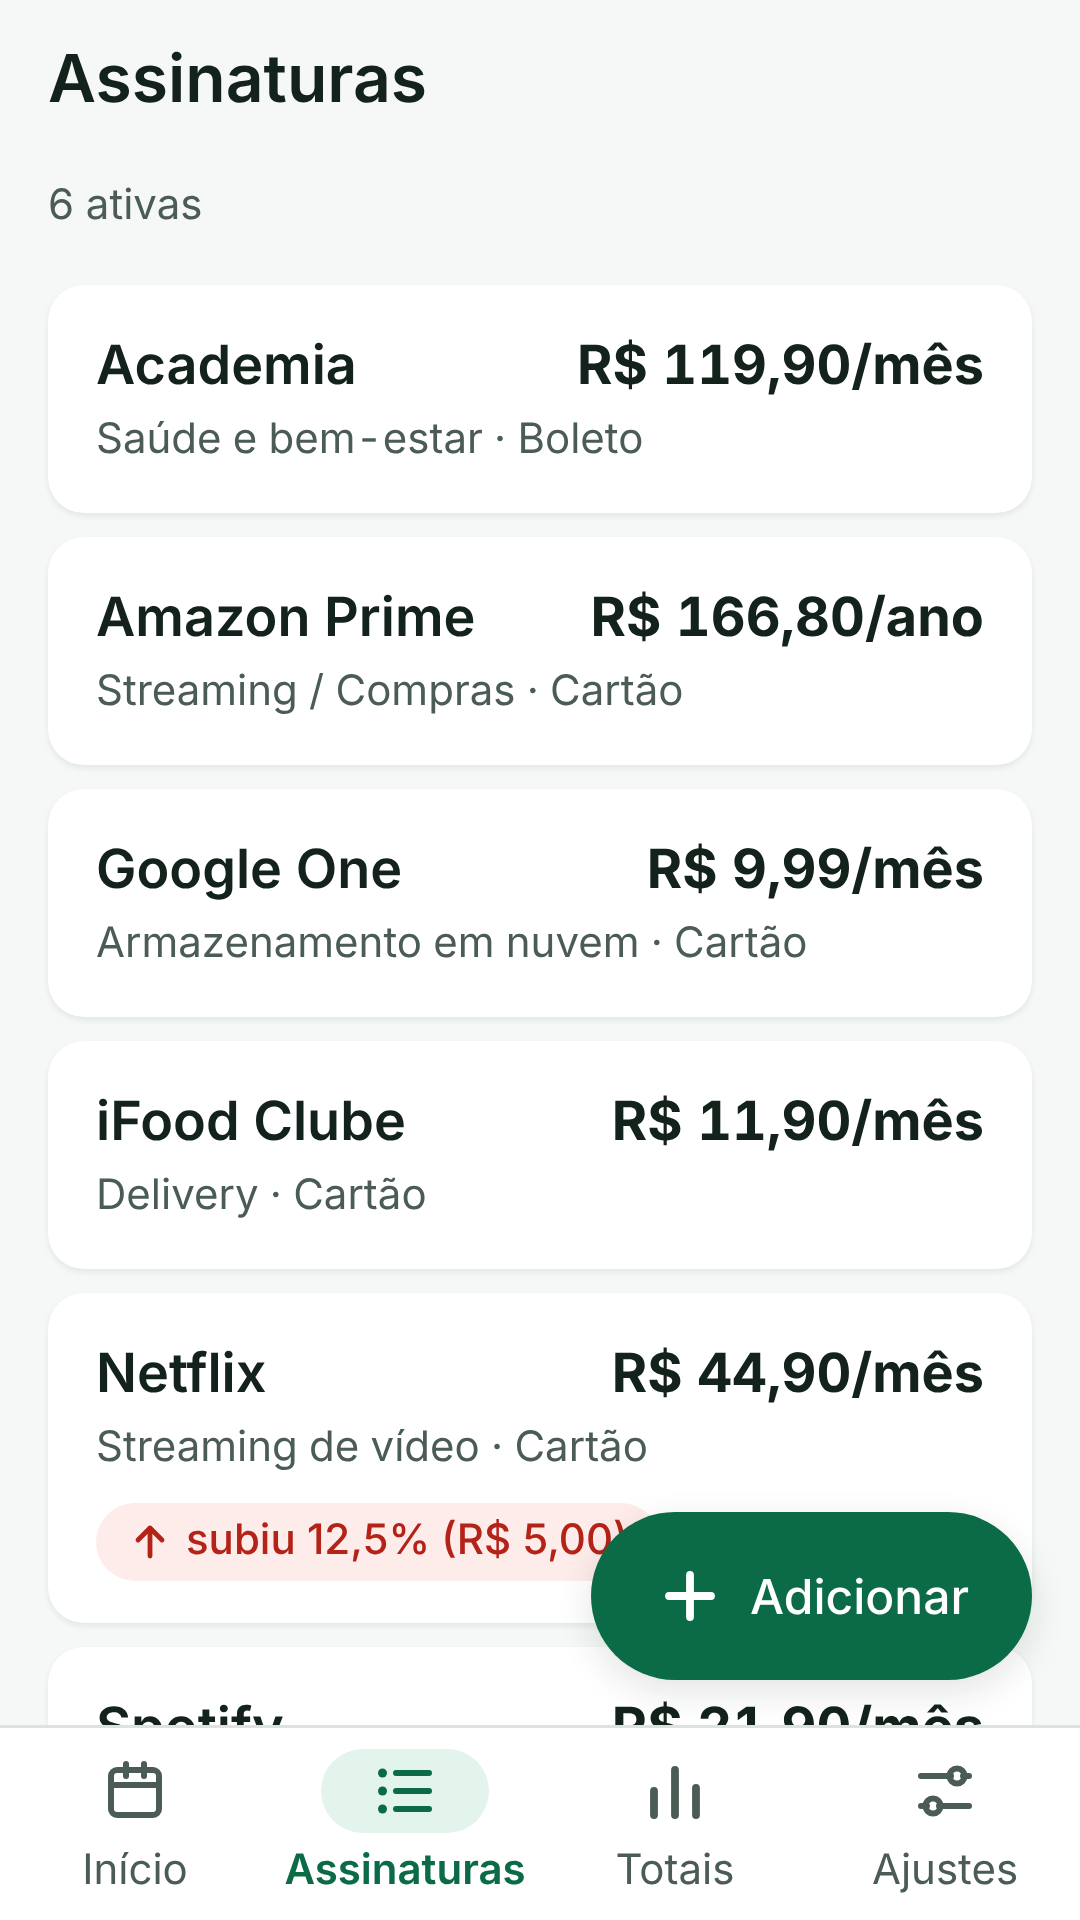
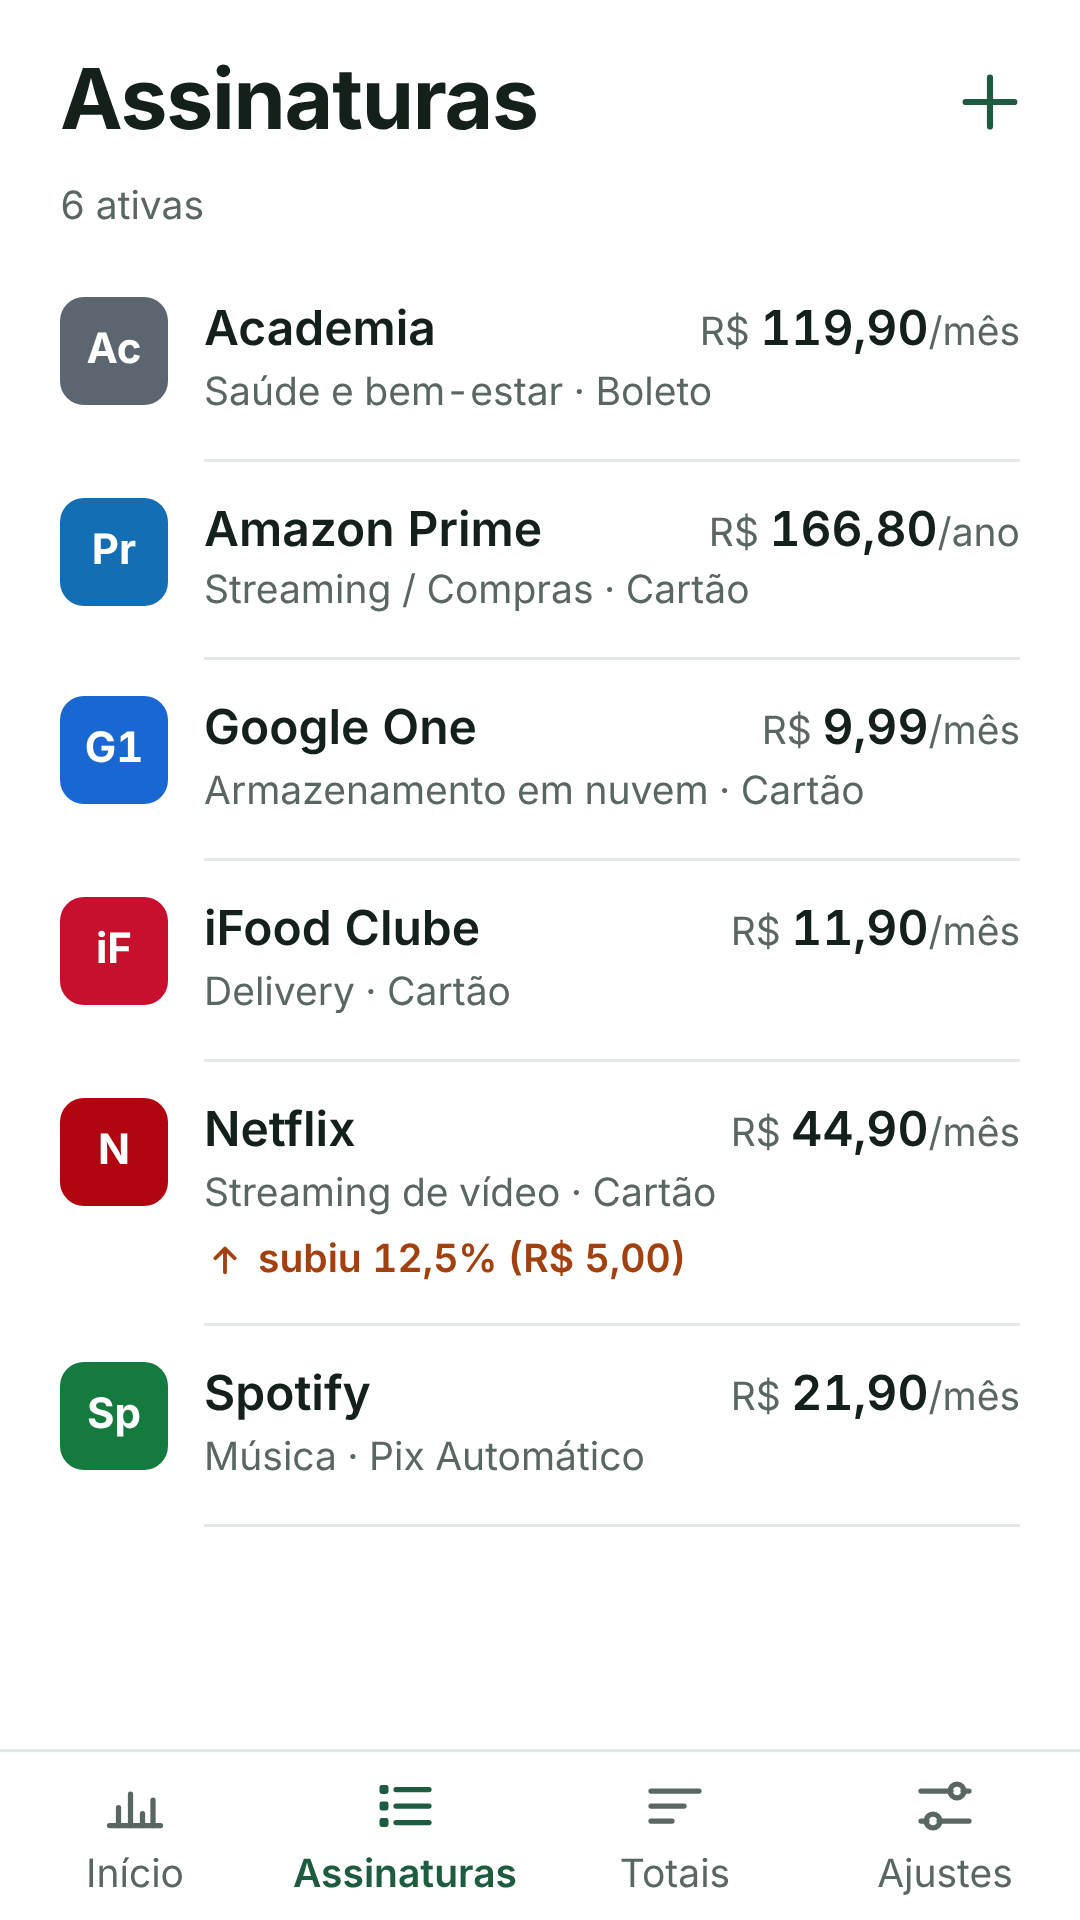
feat(US-23): ícone, manifest, TWA e capturas da loja na direção Extrato
Claude-Session: https://claude.ai/code/session_01WLUkyHY1pP1YuYEwfft5Hb

diff --git a/twa/README.md b/twa/README.md
@@ -27,4 +27,4 @@ O `.aab` vai para o Play Console (R-04). O produto in-app `mensalao_pro` (não c
 
 - `features.playBilling.enabled: true` liga a Digital Goods API dentro da TWA (sem isso o app mostra "compra indisponível").
 - `https://<domínio>/.well-known/assetlinks.json` tem de responder com o pacote e o fingerprint corretos, senão a TWA abre com barra de endereço e a cobrança não funciona.
-- Nome, cores e ícones batem com `public/manifest.webmanifest` (nome "Mensalão", tema #0B6B47, fundo #F5F8F6, ícone 512 px maskable).
+- Nome, cores e ícones batem com `public/manifest.webmanifest` (nome "Mensalão", tema #FFFFFF, fundo #FFFFFF, ícone 512 px maskable). Sprint 3: barra de status e de navegação na cor do papel (#FFFFFF no claro, #0F1512 no escuro), com ícones escuros no claro; tela de abertura = ícone 512 px centralizado sobre o branco.
